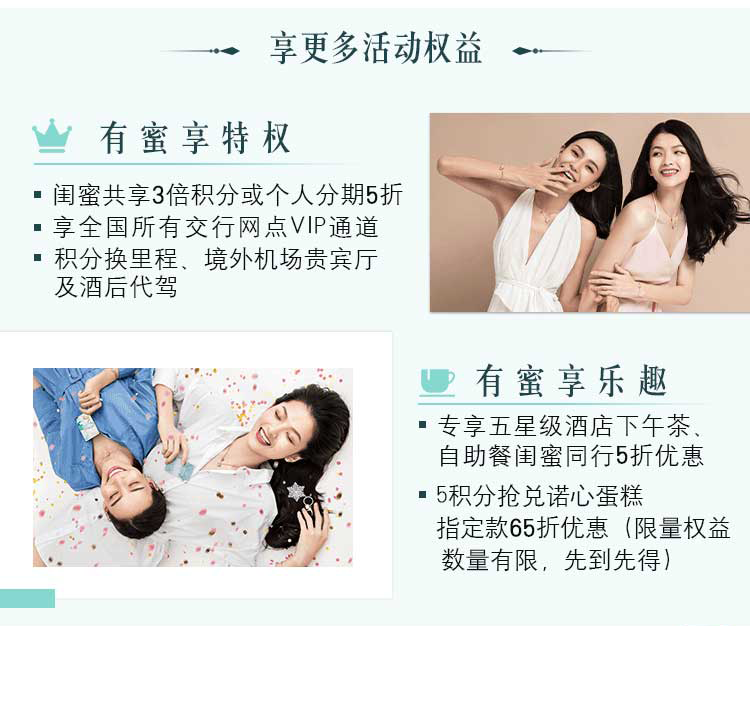
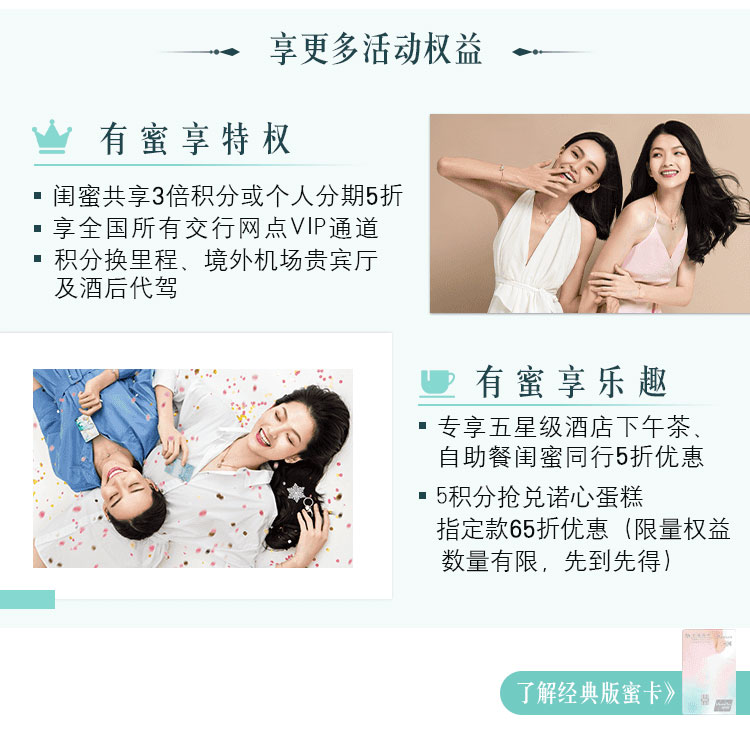
master

diff --git a/水晶卡-腾讯&切图包-WAP/check/css/index.css b/水晶卡-腾讯&切图包-WAP/check/css/index.css
@@ -54,23 +54,25 @@ img {
 	width: 2.52rem;
 	height: .5rem;
 	right: 0;
-	bottom: .36rem;
+	bottom: .23rem;
 }
-
 
 .fixed-div {
 	position: sticky;
 	position: -webkit-sticky;
+	position: -o-sticky;
+	position: -moz-sticky;
+	position: -ms-sticky;	
 	bottom: 0;
 	left: 0;
 }
 
 .fixed-div .apply-card {
     position: absolute;
-    width: 3.1rem;
-    height: .65rem;
-    left: 2.2rem;
-    top: .35rem;
+    width: 3.5rem;
+    height: .68rem;
+    left: 2rem;
+    top: .1rem;
 }
 
 
@@ -79,7 +81,7 @@ img {
 	width: .95rem;
 	height: .35rem;
 	left: 3.3rem;
-	bottom: .23rem;
+	bottom: .05rem;
 }
 
 
@@ -89,7 +91,7 @@ img {
 	width: 3.3rem;
 	height: .65rem;
 	left: 2.1rem;
-	top: .25rem;
+	top: .06rem;
 }
 
 .fixed-div .er-xize {

diff --git a/水晶卡-腾讯&切图包-WAP/upload/css/index.css b/水晶卡-腾讯&切图包-WAP/upload/css/index.css
@@ -54,23 +54,25 @@ img {
 	width: 2.52rem;
 	height: .5rem;
 	right: 0;
-	bottom: .36rem;
+	bottom: .23rem;
 }
-
 
 .fixed-div {
 	position: sticky;
 	position: -webkit-sticky;
+	position: -o-sticky;
+	position: -moz-sticky;
+	position: -ms-sticky;	
 	bottom: 0;
 	left: 0;
 }
 
 .fixed-div .apply-card {
     position: absolute;
-    width: 3.1rem;
-    height: .65rem;
-    left: 2.2rem;
-    top: .35rem;
+    width: 3.5rem;
+    height: .68rem;
+    left: 2rem;
+    top: .1rem;
 }
 
 
@@ -79,7 +81,7 @@ img {
 	width: .95rem;
 	height: .35rem;
 	left: 3.3rem;
-	bottom: .23rem;
+	bottom: .05rem;
 }
 
 
@@ -89,7 +91,7 @@ img {
 	width: 3.3rem;
 	height: .65rem;
 	left: 2.1rem;
-	top: .25rem;
+	top: .06rem;
 }
 
 .fixed-div .er-xize {

diff --git a/水晶卡-腾讯&切图包-WAP/check/index.html b/水晶卡-腾讯&切图包-WAP/check/index.html
@@ -102,7 +102,11 @@
 
 			<img src="images/index/index_03.jpg">
 			<img src="images/index/index_04.jpg">
-			<img src="images/index/index_05.jpg">
+			<div class="relative-div">
+				<a title="经典蜜卡" class="detail-card"
+					href="https://creditcardapp.bankcomm.com/applynew/front/apply/app/cardInfo.html?trackCode=A102316486484&amp;cardId=200"></a>
+				<img src="images/index/index_05.jpg">
+			</div>
 			<div class="fixed-div">
 				<a title="申请水晶蜜卡"
 					href="https://creditcardapp.bankcomm.com/applynew/front/apply/online/cardInfo.html?trackCode=A081313463994&recomId=&saleCode=&cardId=264&cityId=&recomUuid=&memberId="

diff --git a/水晶卡-腾讯&切图包-WAP/upload/index.html b/水晶卡-腾讯&切图包-WAP/upload/index.html
@@ -100,7 +100,11 @@
 
 			<img src="images/index/index_03.jpg">
 			<img src="images/index/index_04.jpg">
-			<img src="images/index/index_05.jpg">
+			<div class="relative-div">
+				<a title="经典蜜卡" class="detail-card"
+					href="https://creditcardapp.bankcomm.com/applynew/front/apply/app/cardInfo.html?trackCode=A102316486484&amp;cardId=200"></a>
+				<img src="images/index/index_05.jpg">
+			</div>
 			<div class="fixed-div">
 				<a title="申请水晶蜜卡"
 					href="https://creditcardapp.bankcomm.com/applynew/front/apply/online/cardInfo.html?trackCode=A081313463994&recomId=&saleCode=&cardId=264&cityId=&recomUuid=&memberId="
